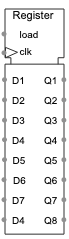
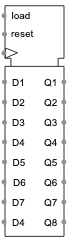
-empty-

diff --git a/shapes/data/global/digital/register/8-BitRegister.js b/shapes/data/global/digital/register/8-BitRegister.js
@@ -13,123 +13,129 @@ var digital_register_8_BitRegister = CircuitFigure.extend({
    {
      var _this = this;
 
-     this._super( $.extend({stroke:0, bgColor:null, width:59,height:229.14950000000044},attr), setter, getter);
+     this._super( $.extend({stroke:0, bgColor:null, width:59,height:231.38850000000002},attr), setter, getter);
      var port;
      // input_clk
-     port = this.addPort(new DecoratedInputPort(), new draw2d.layout.locator.XYRelPortLocator({x: -1.694915254237288, y: 20.861926384303786 }));
+     port = this.addPort(new DecoratedInputPort(), new draw2d.layout.locator.XYRelPortLocator({x: -1.694915254237288, y: 20.76334822171364 }));
      port.setConnectionDirection(3);
      port.setBackgroundColor("#37B1DE");
      port.setName("input_clk");
      port.setMaxFanOut(1);
      // output_q4
-     port = this.addPort(new DecoratedOutputPort(), new draw2d.layout.locator.XYRelPortLocator({x: 99.82118644067853, y: 58.79447696809273 }));
+     port = this.addPort(new DecoratedOutputPort(), new draw2d.layout.locator.XYRelPortLocator({x: 99.82118644067853, y: 59.19319672325957 }));
      port.setConnectionDirection(1);
      port.setBackgroundColor("#37B1DE");
      port.setName("output_q4");
      port.setMaxFanOut(20);
      // output_q3
-     port = this.addPort(new DecoratedOutputPort(), new draw2d.layout.locator.XYRelPortLocator({x: 99.82118644067853, y: 50.255488229300106 }));
+     port = this.addPort(new DecoratedOutputPort(), new draw2d.layout.locator.XYRelPortLocator({x: 99.82118644067853, y: 50.73683437163032 }));
      port.setConnectionDirection(1);
      port.setBackgroundColor("#37B1DE");
      port.setName("output_q3");
      port.setMaxFanOut(20);
      // output_q2
-     port = this.addPort(new DecoratedOutputPort(), new draw2d.layout.locator.XYRelPortLocator({x: 99.82118644067853, y: 41.404716135099584 }));
+     port = this.addPort(new DecoratedOutputPort(), new draw2d.layout.locator.XYRelPortLocator({x: 99.82118644067853, y: 41.97170559470318 }));
      port.setConnectionDirection(1);
      port.setBackgroundColor("#37B1DE");
      port.setName("output_q2");
      port.setMaxFanOut(20);
      // output_q1
-     port = this.addPort(new DecoratedOutputPort(), new draw2d.layout.locator.XYRelPortLocator({x: 99.82118644067853, y: 32.61069738314933 }));
+     port = this.addPort(new DecoratedOutputPort(), new draw2d.layout.locator.XYRelPortLocator({x: 99.82118644067853, y: 33.26278099386939 }));
      port.setConnectionDirection(1);
      port.setBackgroundColor("#37B1DE");
      port.setName("output_q1");
      port.setMaxFanOut(20);
      // input_enable
-     port = this.addPort(new DecoratedInputPort(), new draw2d.layout.locator.XYRelPortLocator({x: -1.694915254237288, y: 12.648811147307866 }));
+     port = this.addPort(new DecoratedInputPort(), new draw2d.layout.locator.XYRelPortLocator({x: -1.694915254237288, y: 4.634494583784357 }));
      port.setConnectionDirection(3);
      port.setBackgroundColor("#37B1DE");
      port.setName("input_enable");
      port.setMaxFanOut(1);
      // input_d1
-     port = this.addPort(new DecoratedInputPort(), new draw2d.layout.locator.XYRelPortLocator({x: -0.847457627118644, y: 32.61069738314933 }));
+     port = this.addPort(new DecoratedInputPort(), new draw2d.layout.locator.XYRelPortLocator({x: -0.847457627118644, y: 33.26278099386939 }));
      port.setConnectionDirection(3);
      port.setBackgroundColor("#37B1DE");
      port.setName("input_d1");
      port.setMaxFanOut(1);
      // input_d2
-     port = this.addPort(new DecoratedInputPort(), new draw2d.layout.locator.XYRelPortLocator({x: -0.847457627118644, y: 41.404716135099584 }));
+     port = this.addPort(new DecoratedInputPort(), new draw2d.layout.locator.XYRelPortLocator({x: -0.847457627118644, y: 41.97170559470318 }));
      port.setConnectionDirection(3);
      port.setBackgroundColor("#37B1DE");
      port.setName("input_d2");
      port.setMaxFanOut(1);
      // input_d3
-     port = this.addPort(new DecoratedInputPort(), new draw2d.layout.locator.XYRelPortLocator({x: -0.847457627118644, y: 50.255488229300106 }));
+     port = this.addPort(new DecoratedInputPort(), new draw2d.layout.locator.XYRelPortLocator({x: -0.847457627118644, y: 50.73683437163032 }));
      port.setConnectionDirection(3);
      port.setBackgroundColor("#37B1DE");
      port.setName("input_d3");
      port.setMaxFanOut(1);
      // input_d4
-     port = this.addPort(new DecoratedInputPort(), new draw2d.layout.locator.XYRelPortLocator({x: -0.847457627118644, y: 58.79447696809273 }));
+     port = this.addPort(new DecoratedInputPort(), new draw2d.layout.locator.XYRelPortLocator({x: -0.847457627118644, y: 59.19319672325957 }));
      port.setConnectionDirection(3);
      port.setBackgroundColor("#37B1DE");
      port.setName("input_d4");
      port.setMaxFanOut(1);
      // input_d5
-     port = this.addPort(new DecoratedInputPort(), new draw2d.layout.locator.XYRelPortLocator({x: -0.847457627118644, y: 67.52240349640721 }));
+     port = this.addPort(new DecoratedInputPort(), new draw2d.layout.locator.XYRelPortLocator({x: -0.847457627118644, y: 67.83666863305629 }));
      port.setConnectionDirection(3);
      port.setBackgroundColor("#37B1DE");
      port.setName("input_d5");
      port.setMaxFanOut(1);
      // input_d6
-     port = this.addPort(new DecoratedInputPort(), new draw2d.layout.locator.XYRelPortLocator({x: -1.694915254237288, y: 76.25033002472166 }));
+     port = this.addPort(new DecoratedInputPort(), new draw2d.layout.locator.XYRelPortLocator({x: -1.694915254237288, y: 76.48014054285302 }));
      port.setConnectionDirection(3);
      port.setBackgroundColor("#37B1DE");
      port.setName("input_d6");
      port.setMaxFanOut(1);
      // input_d7
-     port = this.addPort(new DecoratedInputPort(), new draw2d.layout.locator.XYRelPortLocator({x: -1.694915254237288, y: 84.97825655303613 }));
+     port = this.addPort(new DecoratedInputPort(), new draw2d.layout.locator.XYRelPortLocator({x: -1.694915254237288, y: 85.12361245264975 }));
      port.setConnectionDirection(3);
      port.setBackgroundColor("#37B1DE");
      port.setName("input_d7");
      port.setMaxFanOut(1);
      // input_d8
-     port = this.addPort(new DecoratedInputPort(), new draw2d.layout.locator.XYRelPortLocator({x: -1.694915254237288, y: 93.7061830813506 }));
+     port = this.addPort(new DecoratedInputPort(), new draw2d.layout.locator.XYRelPortLocator({x: -1.694915254237288, y: 93.76708436244648 }));
      port.setConnectionDirection(3);
      port.setBackgroundColor("#37B1DE");
      port.setName("input_d8");
      port.setMaxFanOut(1);
      // output_q5
-     port = this.addPort(new DecoratedOutputPort(), new draw2d.layout.locator.XYRelPortLocator({x: 99.82118644067853, y: 67.52240349640721 }));
+     port = this.addPort(new DecoratedOutputPort(), new draw2d.layout.locator.XYRelPortLocator({x: 99.82118644067853, y: 67.83666863305629 }));
      port.setConnectionDirection(1);
      port.setBackgroundColor("#37B1DE");
      port.setName("output_q5");
      port.setMaxFanOut(20);
      // output_q6
-     port = this.addPort(new DecoratedOutputPort(), new draw2d.layout.locator.XYRelPortLocator({x: 99.82118644067853, y: 76.25033002472166 }));
+     port = this.addPort(new DecoratedOutputPort(), new draw2d.layout.locator.XYRelPortLocator({x: 99.82118644067853, y: 76.48014054285302 }));
      port.setConnectionDirection(1);
      port.setBackgroundColor("#37B1DE");
      port.setName("output_q6");
      port.setMaxFanOut(20);
      // output_q7
-     port = this.addPort(new DecoratedOutputPort(), new draw2d.layout.locator.XYRelPortLocator({x: 99.82118644067853, y: 84.97825655303613 }));
+     port = this.addPort(new DecoratedOutputPort(), new draw2d.layout.locator.XYRelPortLocator({x: 99.82118644067853, y: 85.12361245264975 }));
      port.setConnectionDirection(1);
      port.setBackgroundColor("#37B1DE");
      port.setName("output_q7");
      port.setMaxFanOut(20);
      // output_q8
-     port = this.addPort(new DecoratedOutputPort(), new draw2d.layout.locator.XYRelPortLocator({x: 99.82118644067853, y: 93.7061830813506 }));
+     port = this.addPort(new DecoratedOutputPort(), new draw2d.layout.locator.XYRelPortLocator({x: 99.82118644067853, y: 93.76708436244648 }));
      port.setConnectionDirection(1);
      port.setBackgroundColor("#37B1DE");
      port.setName("output_q8");
      port.setMaxFanOut(20);
+     // input_reset
+     port = this.addPort(new DecoratedInputPort(), new draw2d.layout.locator.XYRelPortLocator({x: -0.847457627118644, y: 12.62970610034633 }));
+     port.setConnectionDirection(3);
+     port.setBackgroundColor("#37B1DE");
+     port.setName("input_reset");
+     port.setMaxFanOut(1);
    },
 
    createShapeElement : function()
    {
       var shape = this._super();
       this.originalWidth = 59;
-      this.originalHeight= 229.14950000000044;
+      this.originalHeight= 231.38850000000002;
       return shape;
    },
 
@@ -138,118 +144,113 @@ var digital_register_8_BitRegister = CircuitFigure.extend({
        this.canvas.paper.setStart();
        var shape = null;
        // BoundingBox
-       shape = this.canvas.paper.path("M0,0 L59,0 L59,229.14950000000044 L0,229.14950000000044");
+       shape = this.canvas.paper.path("M0,0 L59,0 L59,231.38850000000002 L0,231.38850000000002");
        shape.attr({"stroke":"none","stroke-width":0,"fill":"none"});
        shape.data("name","BoundingBox");
        
        // Rectangle
-       shape = this.canvas.paper.path('M53.099999999997635 52.7157238399559L59 52.7157238399559L59 4L0 4L0 52.7157238399559L5.900000000002365 52.7157238399559L5.900000000002365 68L53.099999999997635 68L53.099999999997635 52.7157238399559Z');
+       shape = this.canvas.paper.path('M53.099999999997635 53.2606397649497L59 53.2606397649497L59 0.738999999999578L0 0.738999999999578L0 53.2606397649497L5.900000000002365 53.2606397649497L5.900000000002365 69.73899999999958L53.099999999997635 69.73899999999958L53.099999999997635 53.2606397649497Z');
        shape.attr({"stroke":"rgba(48,48,48,1)","stroke-width":1,"fill":"rgba(255,255,255,1)","dasharray":null,"stroke-dasharray":null,"opacity":1});
        shape.data("name","Rectangle");
        
        // Rectangle
-       shape = this.canvas.paper.path('M0 59.149500000000444L59 59.149500000000444L59 229.14950000000044L0 229.14950000000044Z');
+       shape = this.canvas.paper.path('M0 61.38850000000002L59 61.38850000000002L59 231.38850000000002L0 231.38850000000002Z');
        shape.attr({"stroke":"rgba(48,48,48,1)","stroke-width":1,"fill":"rgba(255,255,255,1)","dasharray":null,"stroke-dasharray":null,"opacity":1});
        shape.data("name","Rectangle");
        
        // Rectangle
-       shape = this.canvas.paper.path('M0.5 42.40551249999953L12.541999999999462 47.31151249999857L0.5 52.66351249999934Z');
+       shape = this.canvas.paper.path('M0.5 43.04399999999987L12.5 47.826608695650975L0.5 53.04399999999987Z');
        shape.attr({"stroke":"rgba(48,48,48,1)","stroke-width":1,"fill":"rgba(0,0,0,0)","dasharray":null,"stroke-dasharray":null,"opacity":1});
        shape.data("name","Rectangle");
        
        // enable
        shape = this.canvas.paper.text(0,0,'load');
-       shape.attr({"x":14.5,"y":29.98468750000029,"text-anchor":"start","text":"load","font-family":"\"Arial\"","font-size":10,"stroke":"#000000","fill":"#080808","stroke-scale":true,"font-weight":"normal","stroke-width":0,"opacity":1});
+       shape.attr({"x":6.44140625,"y":10.6796875,"text-anchor":"start","text":"load","font-family":"\"Arial\"","font-size":10,"stroke":"#000000","fill":"#080808","stroke-scale":true,"font-weight":"normal","stroke-width":0,"opacity":1});
        shape.data("name","enable");
        
        // q4
        shape = this.canvas.paper.text(0,0,'Q4');
-       shape.attr({"x":39.05494616699252,"y":135.4069374999999,"text-anchor":"start","text":"Q4","font-family":"\"Arial\"","font-size":10,"stroke":"#000000","fill":"#080808","stroke-scale":true,"font-weight":"normal","stroke-width":0,"opacity":1});
+       shape.attr({"x":39.05494616699252,"y":137.6459374999995,"text-anchor":"start","text":"Q4","font-family":"\"Arial\"","font-size":10,"stroke":"#000000","fill":"#080808","stroke-scale":true,"font-weight":"normal","stroke-width":0,"opacity":1});
        shape.data("name","q4");
        
        // q3
        shape = this.canvas.paper.text(0,0,'Q3');
-       shape.attr({"x":39.05494616699252,"y":115.23807500000021,"text-anchor":"start","text":"Q3","font-family":"\"Arial\"","font-size":10,"stroke":"#000000","fill":"#080808","stroke-scale":true,"font-weight":"normal","stroke-width":0,"opacity":1});
+       shape.attr({"x":39.05494616699252,"y":117.47707499999979,"text-anchor":"start","text":"Q3","font-family":"\"Arial\"","font-size":10,"stroke":"#000000","fill":"#080808","stroke-scale":true,"font-weight":"normal","stroke-width":0,"opacity":1});
        shape.data("name","q3");
        
        // q2
        shape = this.canvas.paper.text(0,0,'Q2');
-       shape.attr({"x":39.05494616699252,"y":95.40693749999991,"text-anchor":"start","text":"Q2","font-family":"\"Arial\"","font-size":10,"stroke":"#000000","fill":"#080808","stroke-scale":true,"font-weight":"normal","stroke-width":0,"opacity":1});
+       shape.attr({"x":39.05494616699252,"y":97.64593749999949,"text-anchor":"start","text":"Q2","font-family":"\"Arial\"","font-size":10,"stroke":"#000000","fill":"#080808","stroke-scale":true,"font-weight":"normal","stroke-width":0,"opacity":1});
        shape.data("name","q2");
        
        // q1
        shape = this.canvas.paper.text(0,0,'Q1');
-       shape.attr({"x":39.05494616699252,"y":75.40693749999991,"text-anchor":"start","text":"Q1","font-family":"\"Arial\"","font-size":10,"stroke":"#000000","fill":"#080808","stroke-scale":true,"font-weight":"normal","stroke-width":0,"opacity":1});
+       shape.attr({"x":39.05494616699252,"y":77.64593749999949,"text-anchor":"start","text":"Q1","font-family":"\"Arial\"","font-size":10,"stroke":"#000000","fill":"#080808","stroke-scale":true,"font-weight":"normal","stroke-width":0,"opacity":1});
        shape.data("name","q1");
        
        // d1
        shape = this.canvas.paper.text(0,0,'D1');
-       shape.attr({"x":7,"y":75.48468750000029,"text-anchor":"start","text":"D1","font-family":"\"Arial\"","font-size":10,"stroke":"#000000","fill":"#080808","stroke-scale":true,"font-weight":"normal","stroke-width":0,"opacity":1});
+       shape.attr({"x":7,"y":77.72368749999987,"text-anchor":"start","text":"D1","font-family":"\"Arial\"","font-size":10,"stroke":"#000000","fill":"#080808","stroke-scale":true,"font-weight":"normal","stroke-width":0,"opacity":1});
        shape.data("name","d1");
        
        // d2
        shape = this.canvas.paper.text(0,0,'D2');
-       shape.attr({"x":7,"y":95.40693749999991,"text-anchor":"start","text":"D2","font-family":"\"Arial\"","font-size":10,"stroke":"#000000","fill":"#080808","stroke-scale":true,"font-weight":"normal","stroke-width":0,"opacity":1});
+       shape.attr({"x":7,"y":97.64593749999949,"text-anchor":"start","text":"D2","font-family":"\"Arial\"","font-size":10,"stroke":"#000000","fill":"#080808","stroke-scale":true,"font-weight":"normal","stroke-width":0,"opacity":1});
        shape.data("name","d2");
        
        // d3
        shape = this.canvas.paper.text(0,0,'D3');
-       shape.attr({"x":7,"y":115.40693749999991,"text-anchor":"start","text":"D3","font-family":"\"Arial\"","font-size":10,"stroke":"#000000","fill":"#080808","stroke-scale":true,"font-weight":"normal","stroke-width":0,"opacity":1});
+       shape.attr({"x":7,"y":117.64593749999949,"text-anchor":"start","text":"D3","font-family":"\"Arial\"","font-size":10,"stroke":"#000000","fill":"#080808","stroke-scale":true,"font-weight":"normal","stroke-width":0,"opacity":1});
        shape.data("name","d3");
        
        // d4
        shape = this.canvas.paper.text(0,0,'D4');
-       shape.attr({"x":7,"y":135.4069374999999,"text-anchor":"start","text":"D4","font-family":"\"Arial\"","font-size":10,"stroke":"#000000","fill":"#080808","stroke-scale":true,"font-weight":"normal","stroke-width":0,"opacity":1});
+       shape.attr({"x":7,"y":137.6459374999995,"text-anchor":"start","text":"D4","font-family":"\"Arial\"","font-size":10,"stroke":"#000000","fill":"#080808","stroke-scale":true,"font-weight":"normal","stroke-width":0,"opacity":1});
        shape.data("name","d4");
        
        // q5
        shape = this.canvas.paper.text(0,0,'Q5');
-       shape.attr({"x":39.05494616699252,"y":155.4069374999999,"text-anchor":"start","text":"Q5","font-family":"\"Arial\"","font-size":10,"stroke":"#000000","fill":"#080808","stroke-scale":true,"font-weight":"normal","stroke-width":0,"opacity":1});
+       shape.attr({"x":39.05494616699252,"y":157.6459374999995,"text-anchor":"start","text":"Q5","font-family":"\"Arial\"","font-size":10,"stroke":"#000000","fill":"#080808","stroke-scale":true,"font-weight":"normal","stroke-width":0,"opacity":1});
        shape.data("name","q5");
        
        // q6
        shape = this.canvas.paper.text(0,0,'Q6');
-       shape.attr({"x":39.05494616699252,"y":175.4069374999999,"text-anchor":"start","text":"Q6","font-family":"\"Arial\"","font-size":10,"stroke":"#000000","fill":"#080808","stroke-scale":true,"font-weight":"normal","stroke-width":0,"opacity":1});
+       shape.attr({"x":39.05494616699252,"y":177.6459374999995,"text-anchor":"start","text":"Q6","font-family":"\"Arial\"","font-size":10,"stroke":"#000000","fill":"#080808","stroke-scale":true,"font-weight":"normal","stroke-width":0,"opacity":1});
        shape.data("name","q6");
        
        // q7
        shape = this.canvas.paper.text(0,0,'Q7');
-       shape.attr({"x":39.05494616699252,"y":195.4069374999999,"text-anchor":"start","text":"Q7","font-family":"\"Arial\"","font-size":10,"stroke":"#000000","fill":"#080808","stroke-scale":true,"font-weight":"normal","stroke-width":0,"opacity":1});
+       shape.attr({"x":39.05494616699252,"y":197.6459374999995,"text-anchor":"start","text":"Q7","font-family":"\"Arial\"","font-size":10,"stroke":"#000000","fill":"#080808","stroke-scale":true,"font-weight":"normal","stroke-width":0,"opacity":1});
        shape.data("name","q7");
        
        // q8
        shape = this.canvas.paper.text(0,0,'Q8');
-       shape.attr({"x":39.05494616699252,"y":215.4069374999999,"text-anchor":"start","text":"Q8","font-family":"\"Arial\"","font-size":10,"stroke":"#000000","fill":"#080808","stroke-scale":true,"font-weight":"normal","stroke-width":0,"opacity":1});
+       shape.attr({"x":39.05494616699252,"y":217.6459374999995,"text-anchor":"start","text":"Q8","font-family":"\"Arial\"","font-size":10,"stroke":"#000000","fill":"#080808","stroke-scale":true,"font-weight":"normal","stroke-width":0,"opacity":1});
        shape.data("name","q8");
        
        // d4
        shape = this.canvas.paper.text(0,0,'D5');
-       shape.attr({"x":7.5,"y":155.2272499999999,"text-anchor":"start","text":"D5","font-family":"\"Arial\"","font-size":10,"stroke":"#000000","fill":"#080808","stroke-scale":true,"font-weight":"normal","stroke-width":0,"opacity":1});
+       shape.attr({"x":7.5,"y":157.4662499999995,"text-anchor":"start","text":"D5","font-family":"\"Arial\"","font-size":10,"stroke":"#000000","fill":"#080808","stroke-scale":true,"font-weight":"normal","stroke-width":0,"opacity":1});
        shape.data("name","d4");
        
        // d4
        shape = this.canvas.paper.text(0,0,'D6');
-       shape.attr({"x":8,"y":175.4069374999999,"text-anchor":"start","text":"D6","font-family":"\"Arial\"","font-size":10,"stroke":"#000000","fill":"#080808","stroke-scale":true,"font-weight":"normal","stroke-width":0,"opacity":1});
+       shape.attr({"x":8,"y":177.6459374999995,"text-anchor":"start","text":"D6","font-family":"\"Arial\"","font-size":10,"stroke":"#000000","fill":"#080808","stroke-scale":true,"font-weight":"normal","stroke-width":0,"opacity":1});
        shape.data("name","d4");
        
        // d4
        shape = this.canvas.paper.text(0,0,'D7');
-       shape.attr({"x":7,"y":195.4069374999999,"text-anchor":"start","text":"D7","font-family":"\"Arial\"","font-size":10,"stroke":"#000000","fill":"#080808","stroke-scale":true,"font-weight":"normal","stroke-width":0,"opacity":1});
+       shape.attr({"x":7,"y":197.6459374999995,"text-anchor":"start","text":"D7","font-family":"\"Arial\"","font-size":10,"stroke":"#000000","fill":"#080808","stroke-scale":true,"font-weight":"normal","stroke-width":0,"opacity":1});
        shape.data("name","d4");
        
        // d4
        shape = this.canvas.paper.text(0,0,'D4');
-       shape.attr({"x":7,"y":215.4069374999999,"text-anchor":"start","text":"D4","font-family":"\"Arial\"","font-size":10,"stroke":"#000000","fill":"#080808","stroke-scale":true,"font-weight":"normal","stroke-width":0,"opacity":1});
+       shape.attr({"x":7,"y":217.6459374999995,"text-anchor":"start","text":"D4","font-family":"\"Arial\"","font-size":10,"stroke":"#000000","fill":"#080808","stroke-scale":true,"font-weight":"normal","stroke-width":0,"opacity":1});
        shape.data("name","d4");
        
-       // Label
-       shape = this.canvas.paper.text(0,0,'Register');
-       shape.attr({"x":7.5,"y":10.503751277923584,"text-anchor":"start","text":"Register","font-family":"\"Arial\"","font-size":11,"stroke":"#000000","fill":"#080808","stroke-scale":true,"font-weight":"normal","stroke-width":0,"opacity":1});
-       shape.data("name","Label");
-       
        // enable
-       shape = this.canvas.paper.text(0,0,'clk');
-       shape.attr({"x":14.541999999999462,"y":46.66437500000029,"text-anchor":"start","text":"clk","font-family":"\"Arial\"","font-size":10,"stroke":"#000000","fill":"#080808","stroke-scale":true,"font-weight":"normal","stroke-width":0,"opacity":1});
+       shape = this.canvas.paper.text(0,0,'reset');
+       shape.attr({"x":6,"y":28.926190055846746,"text-anchor":"start","text":"reset","font-family":"\"Arial\"","font-size":10,"stroke":"#000000","fill":"#080808","stroke-scale":true,"font-weight":"normal","stroke-width":0,"opacity":1});
        shape.data("name","enable");
        
 
@@ -279,10 +280,21 @@ digital_register_8_BitRegister = digital_register_8_BitRegister.extend({
     calculate:function()
     {
         var enable = this.getInputPort("input_enable").getBooleanValue();
+        var reset = this.getInputPort("input_enable").getBooleanValue();
         var clk = this.getInputPort("input_clk").getBooleanValue();
         
         var rising = this.last_clk===false && clk===true; 
-        if(rising===true && enable===true){
+        if(reset){
+            this.getOutputPort("output_q1").setValue(0)
+            this.getOutputPort("output_q2").setValue(0)
+            this.getOutputPort("output_q3").setValue(0)
+            this.getOutputPort("output_q4").setValue(0)
+            this.getOutputPort("output_q5").setValue(0)
+            this.getOutputPort("output_q6").setValue(0)
+            this.getOutputPort("output_q7").setValue(0)
+            this.getOutputPort("output_q8").setValue(0)
+        }
+        else if(rising===true && enable===true){
             this.getOutputPort("output_q1").setValue(this.getInputPort("input_d1").getValue())
             this.getOutputPort("output_q2").setValue(this.getInputPort("input_d2").getValue())
             this.getOutputPort("output_q3").setValue(this.getInputPort("input_d3").getValue())
